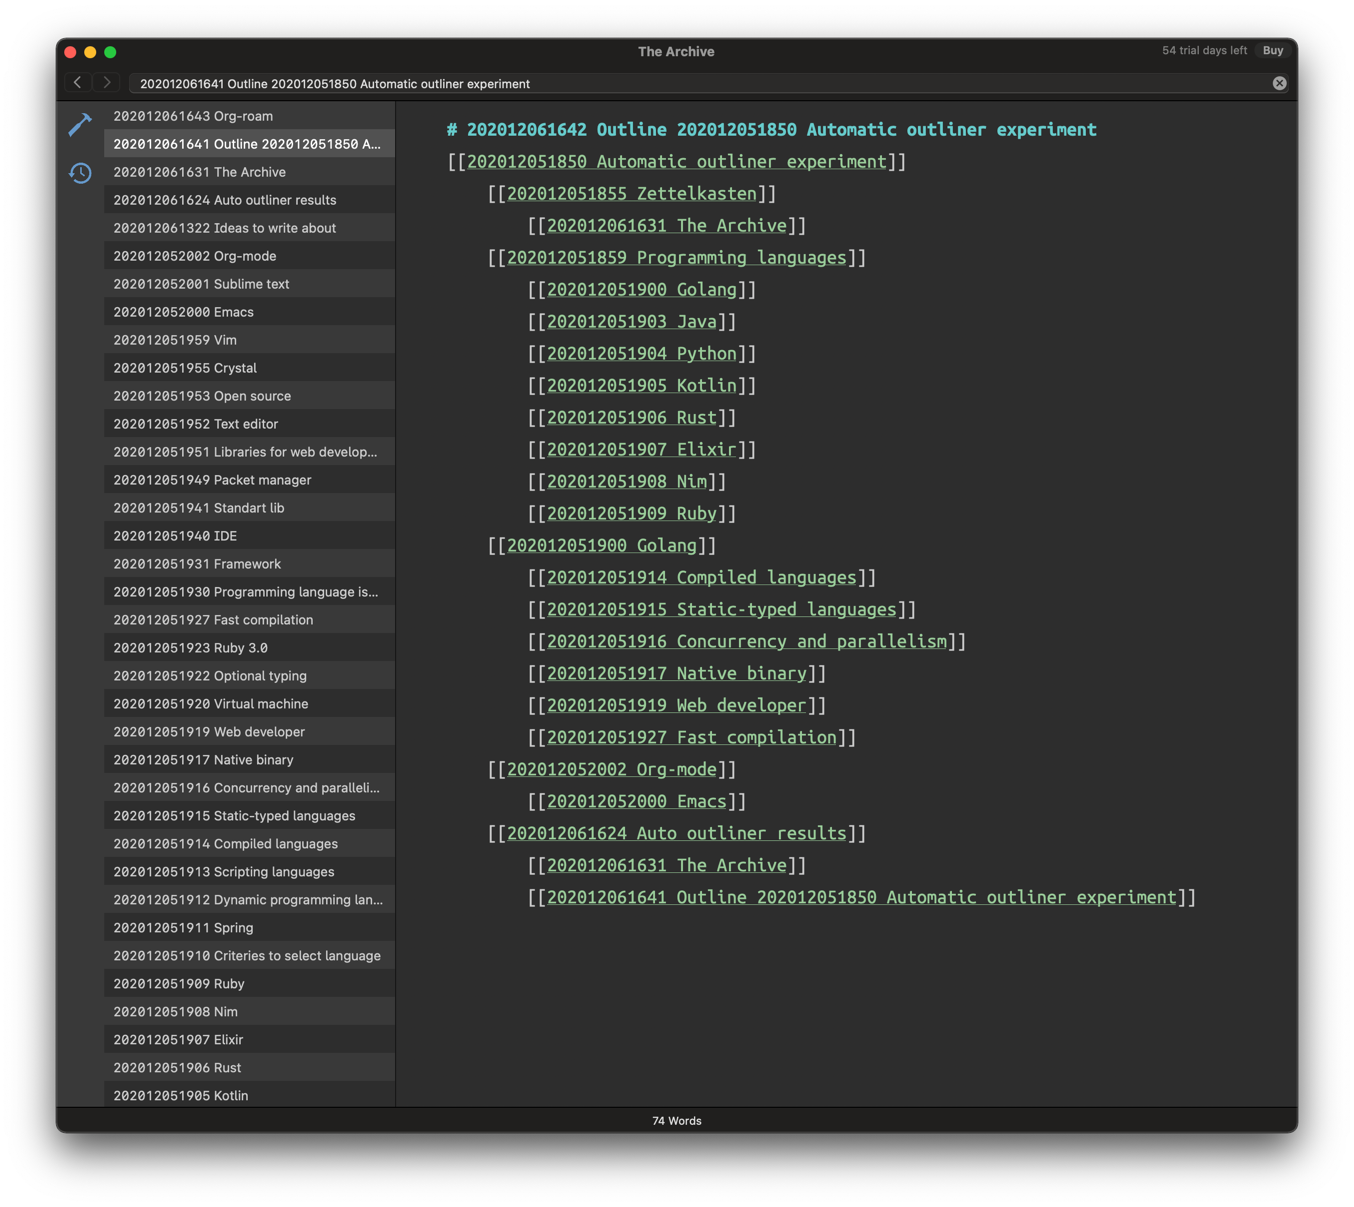
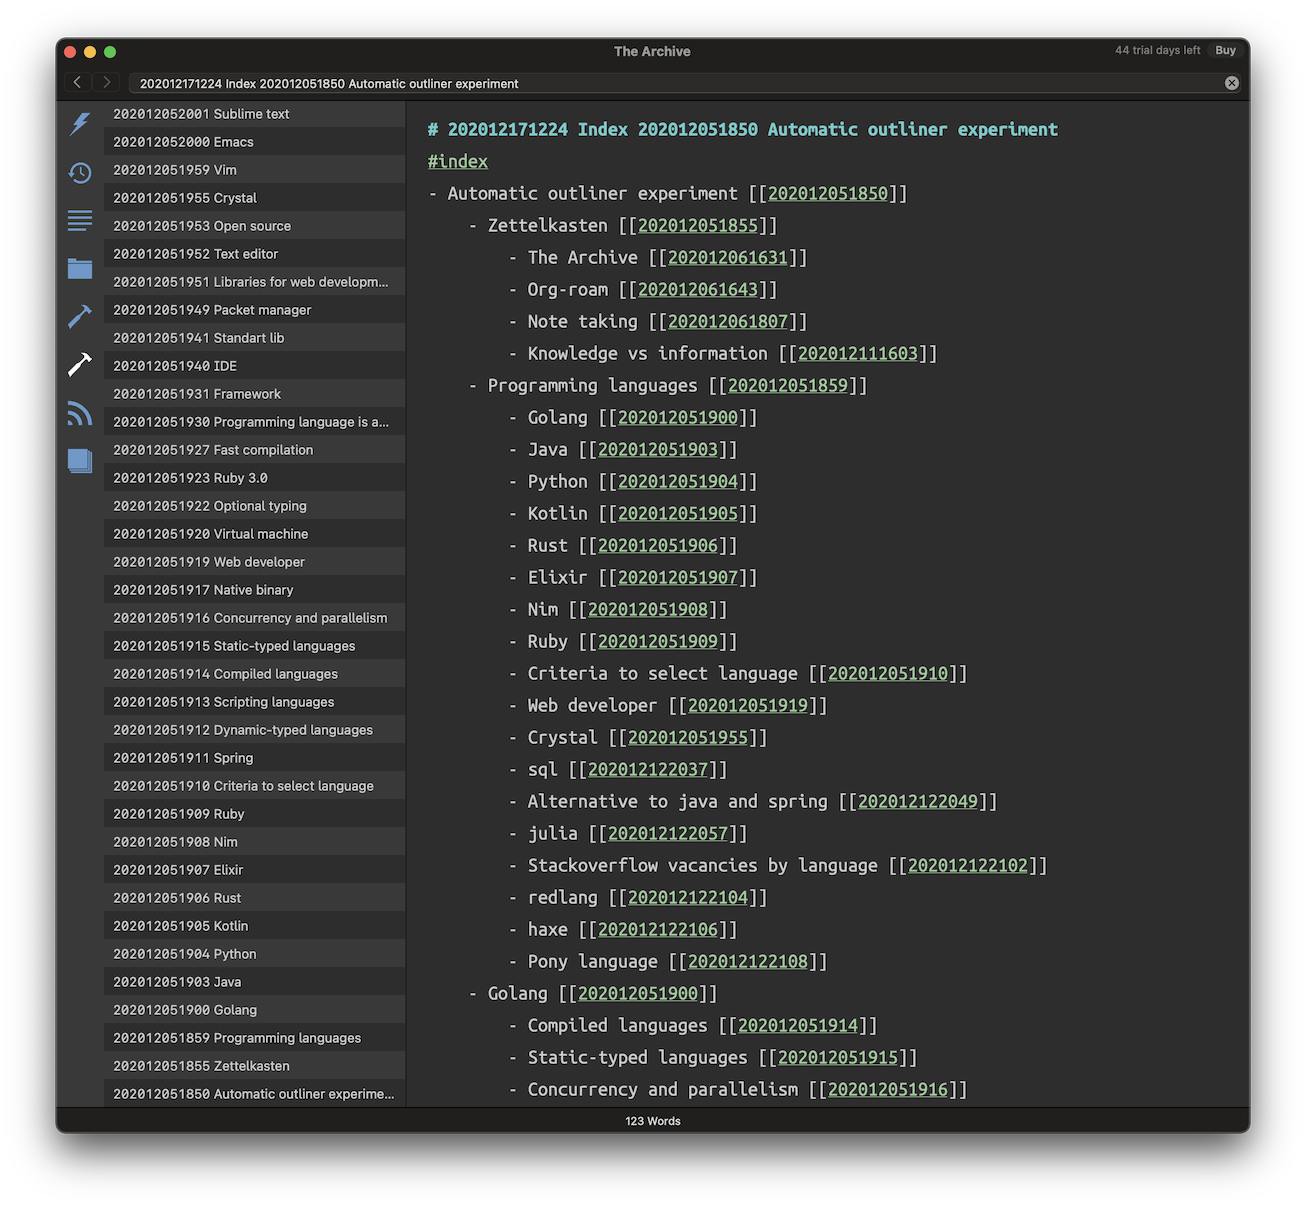
feat: wikilinks use id only, spaces for delimiter

diff --git a/cmd/outliner/outliner.go b/cmd/outliner/outliner.go
@@ -6,10 +6,12 @@ import (
 	"os"
 	"path/filepath"
 	"regexp"
+	"strconv"
+	"strings"
 )
 
 const (
-	notesDelimiter    = "...."
+	notesDelimiter    = "    "
 	markdownLineBreak = "  "
 	tag               = "#index"
 )
@@ -71,12 +73,27 @@ func printNotesOutline(note *Note, padding string, result []string) []string {
 		return result
 	}
 
-	result = append(result, fmt.Sprintf("%s[[%s]]%s", padding, note.String(), markdownLineBreak))
+	noteLink := getNoteLink(note)
+	result = append(result, fmt.Sprintf("%s- %s%s", padding, noteLink, markdownLineBreak))
 	for _, child := range note.children {
 		result = printNotesOutline(child, padding+notesDelimiter, result)
 	}
 
 	return result
+}
+
+func isId(id string) bool {
+	_, err := strconv.Atoi(id)
+	return err == nil
+}
+
+func getNoteLink(note *Note) string {
+	firstSpaceIndex := strings.Index(note.name, " ")
+	if firstSpaceIndex != -1 && isId(note.name[:firstSpaceIndex]) {
+		return fmt.Sprintf("%s [[%s]]", note.name[firstSpaceIndex+1:], note.name[:firstSpaceIndex])
+	} else {
+		return note.name
+	}
 }
 
 func parseNoteHierarchy(file string, files []string, parent *Note, levelsLeft int) *Note {
